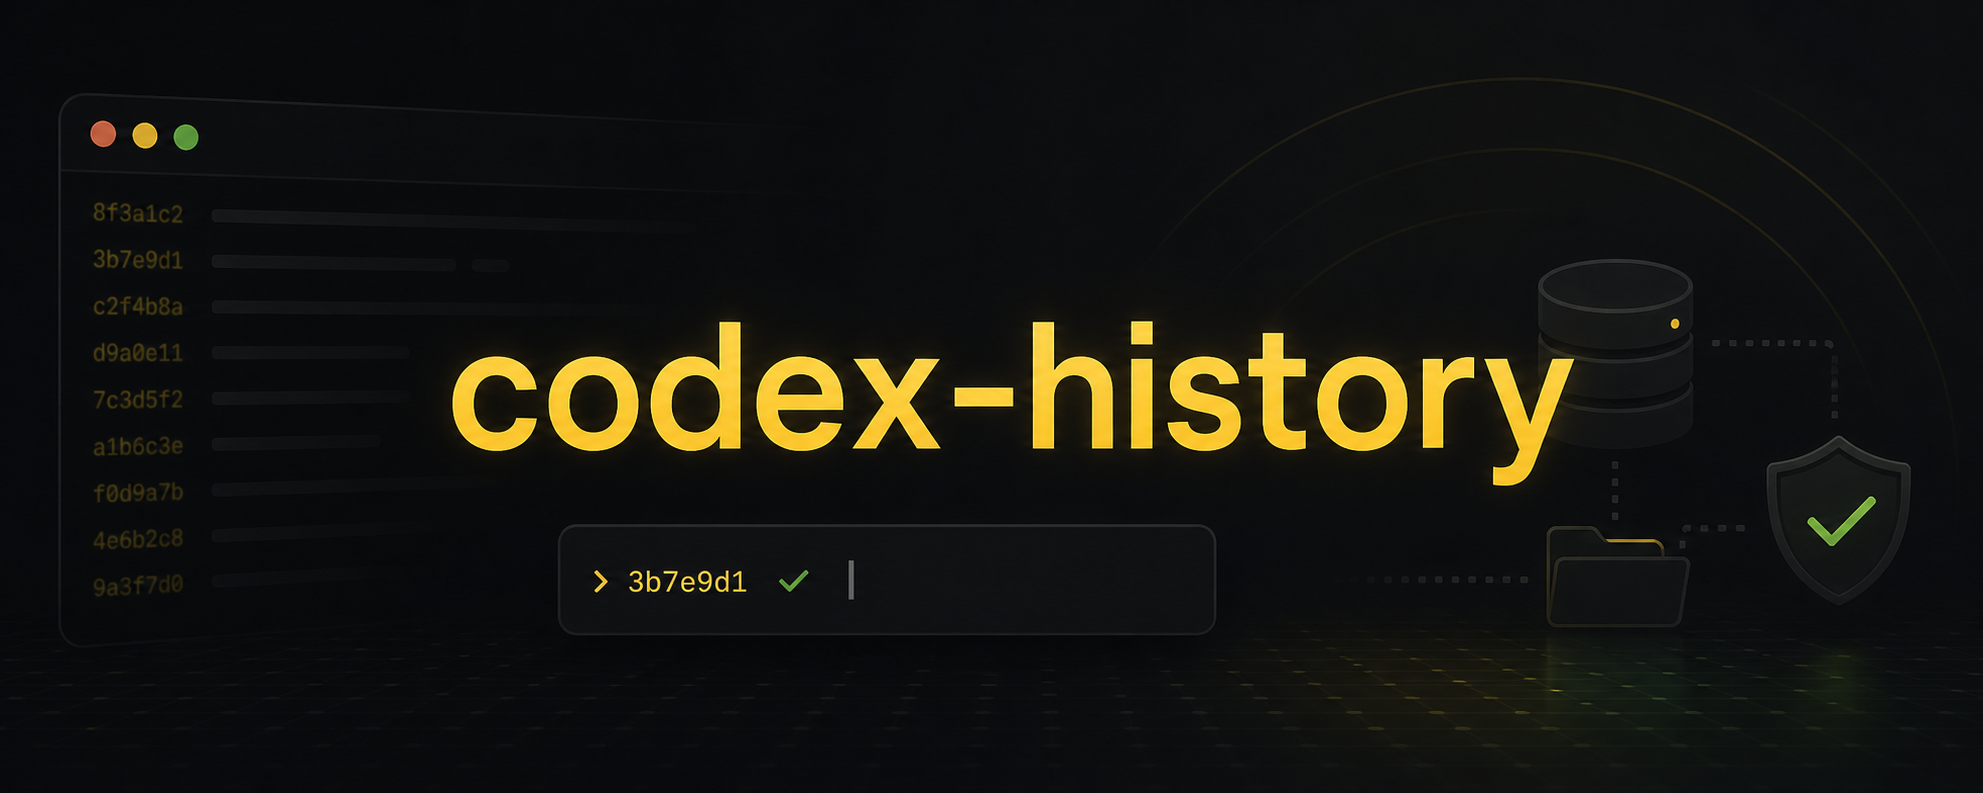
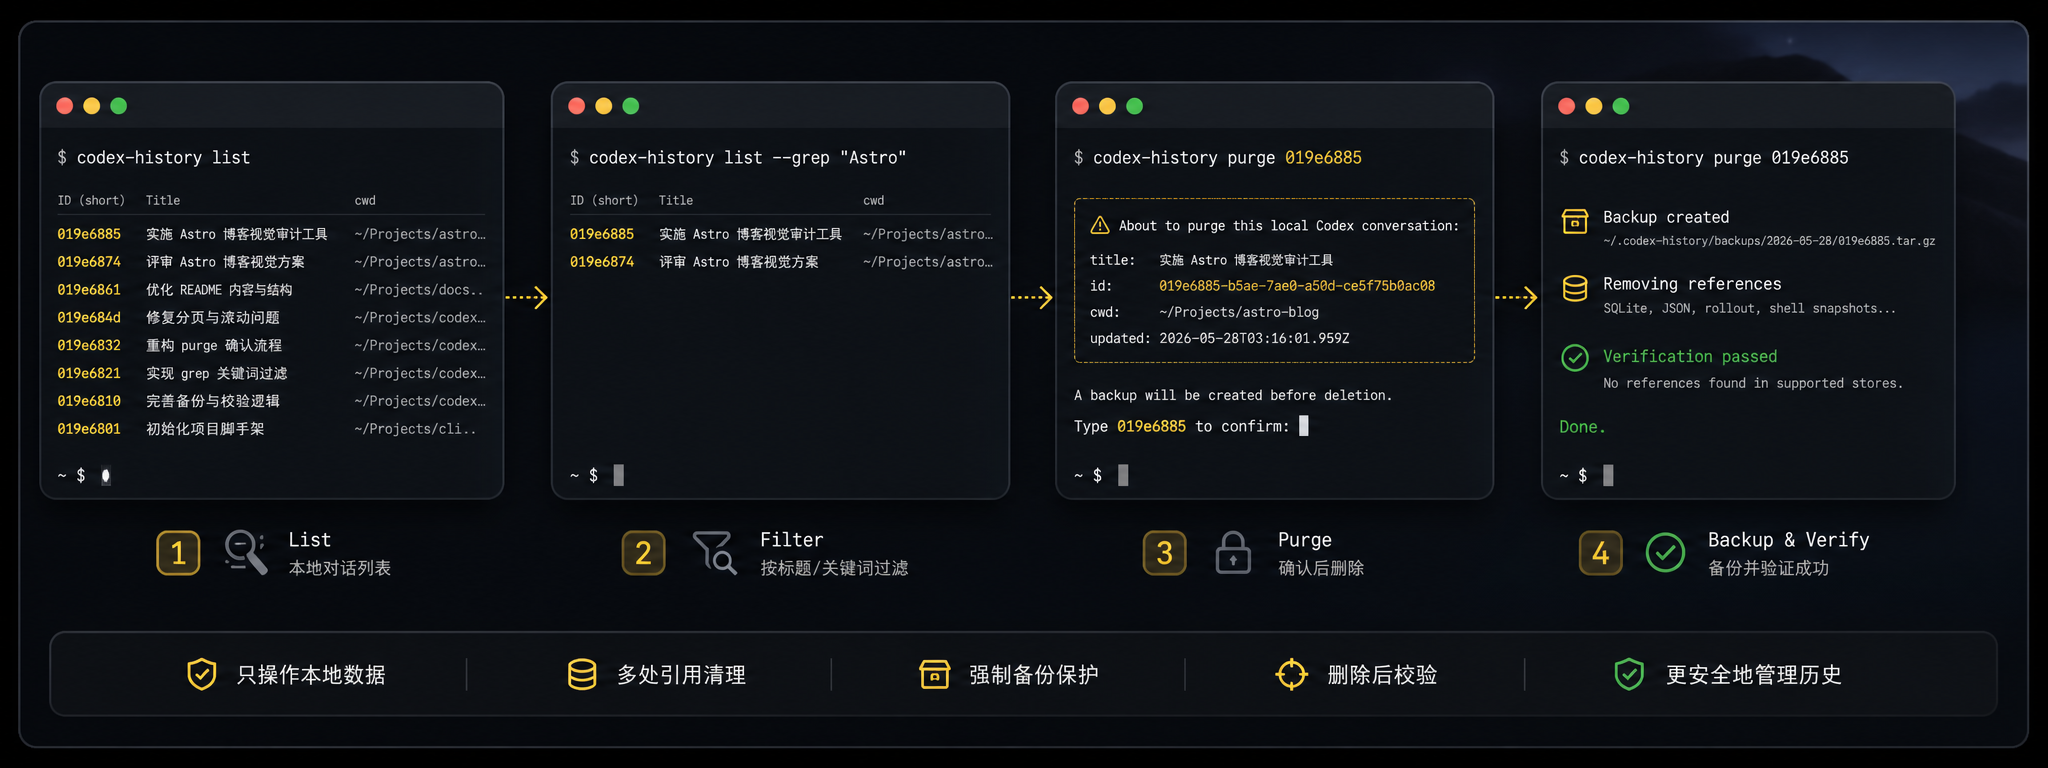
docs: polish readme hero and platform notes

diff --git a/README.en.md b/README.en.md
@@ -1,8 +1,20 @@
+<h1 align="center">Codex History</h1>
+
+<p align="center">
+  <img alt="npm" src="https://img.shields.io/npm/v/@liuyoumi/codex-history?style=flat-square&color=cb9b27" />
+  <img alt="platform" src="https://img.shields.io/badge/platform-macOS%20%7C%20Windows%20%7C%20Linux-2ea043?style=flat-square" />
+  <img alt="local only" src="https://img.shields.io/badge/local%20data-only-6e7681?style=flat-square" />
+  <img alt="backup" src="https://img.shields.io/badge/backup-before%20purge-0969da?style=flat-square" />
+  <img alt="license" src="https://img.shields.io/npm/l/@liuyoumi/codex-history?style=flat-square" />
+</p>
+
+<p align="center">
+  <a href="README.md">中文</a> | <a href="README.en.md">English</a>
+</p>
+
 <p align="center">
   <img src="https://raw.githubusercontent.com/liuyoumi/codex-history/main/assets/cover.png" alt="codex-history cover" width="100%" />
 </p>
-
-[中文](README.md) | [English](README.en.md)
 
 A small CLI for finding and removing local Codex conversation history.
 
@@ -22,9 +34,15 @@ npx @liuyoumi/codex-history doctor
 
 ## Supported Platforms
 
-- macOS: verified
-- Windows: verified
-- Linux: verified
+`codex-history` has been checked on macOS, Windows, and Linux for install, `doctor`, `list` / `--grep`, and guarded `purge` workflows with confirmation and backups.
+
+| Platform | Status |
+| --- | --- |
+| macOS | Ready for everyday local history management |
+| Windows | Ready for everyday local history management |
+| Linux | Ready for everyday local history management |
+
+Codex local data layouts may change between Codex releases. After updating Codex, run `codex-history doctor` before purging conversations.
 
 ## Quick Start
 

diff --git a/README.md b/README.md
@@ -1,8 +1,20 @@
+<h1 align="center">Codex History</h1>
+
+<p align="center">
+  <img alt="npm" src="https://img.shields.io/npm/v/@liuyoumi/codex-history?style=flat-square&color=cb9b27" />
+  <img alt="platform" src="https://img.shields.io/badge/platform-macOS%20%7C%20Windows%20%7C%20Linux-2ea043?style=flat-square" />
+  <img alt="local only" src="https://img.shields.io/badge/local%20data-only-6e7681?style=flat-square" />
+  <img alt="backup" src="https://img.shields.io/badge/backup-before%20purge-0969da?style=flat-square" />
+  <img alt="license" src="https://img.shields.io/npm/l/@liuyoumi/codex-history?style=flat-square" />
+</p>
+
+<p align="center">
+  <a href="README.md">中文</a> | <a href="README.en.md">English</a>
+</p>
+
 <p align="center">
   <img src="https://raw.githubusercontent.com/liuyoumi/codex-history/main/assets/cover.png" alt="codex-history 封面" width="100%" />
 </p>
-
-[中文](README.md) | [English](README.en.md)
 
 一个用来查找并删除本地 Codex 对话历史的小型命令行工具。
 
@@ -22,9 +34,15 @@ npx @liuyoumi/codex-history doctor
 
 ## 支持平台
 
-- macOS：已验证
-- Windows：已验证
-- Linux：已验证
+`codex-history` 已在 macOS、Windows、Linux 上完成基础流程验证，包括安装、`doctor`、`list` / `--grep`，以及带确认和备份保护的 `purge`。
+
+| 平台 | 状态 |
+| --- | --- |
+| macOS | 可用于日常本地历史管理 |
+| Windows | 可用于日常本地历史管理 |
+| Linux | 可用于日常本地历史管理 |
+
+Codex 本地数据结构可能随版本变化。Codex 升级后，建议先运行 `codex-history doctor` 再执行删除操作。
 
 ## 快速开始
 

diff --git a/CHANGELOG.md b/CHANGELOG.md
@@ -6,8 +6,8 @@
 
 - Use Chinese as the default README language.
 - Add an English README translation.
-- Add a generated README cover image.
-- Mark macOS, Windows, and Linux as verified in the README.
+- Refresh the README cover image to show the list, filter, purge, backup, and verification flow.
+- Add README badges and clearer macOS, Windows, and Linux support notes.
 
 ## 0.1.1 - 2026-05-28
 